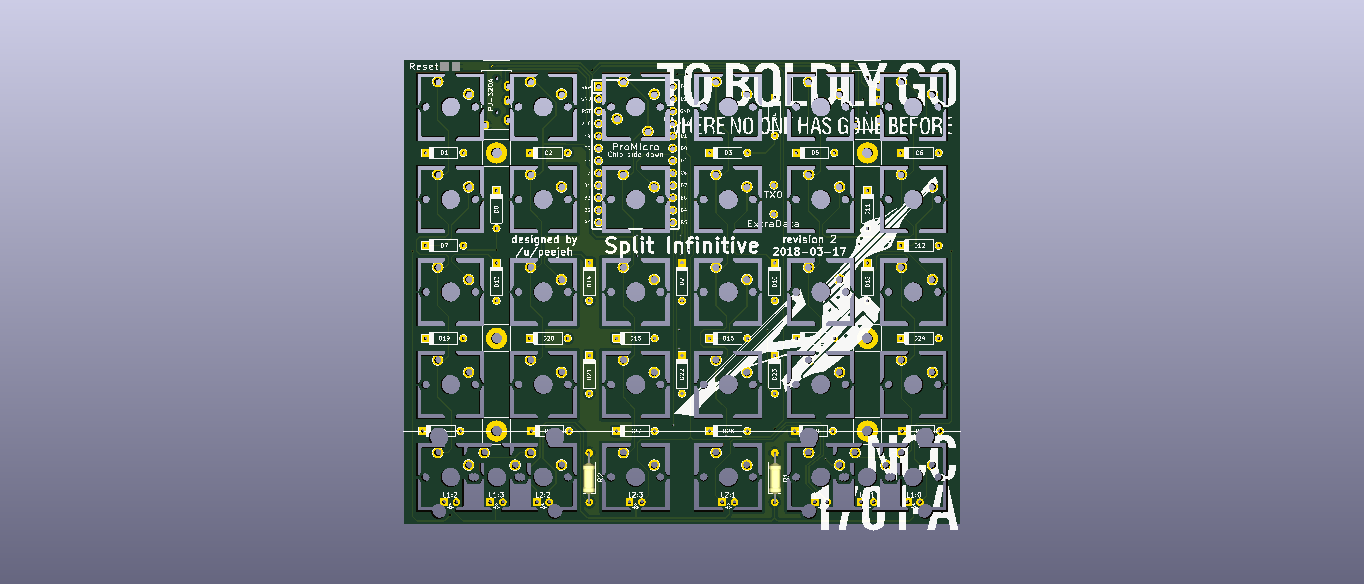
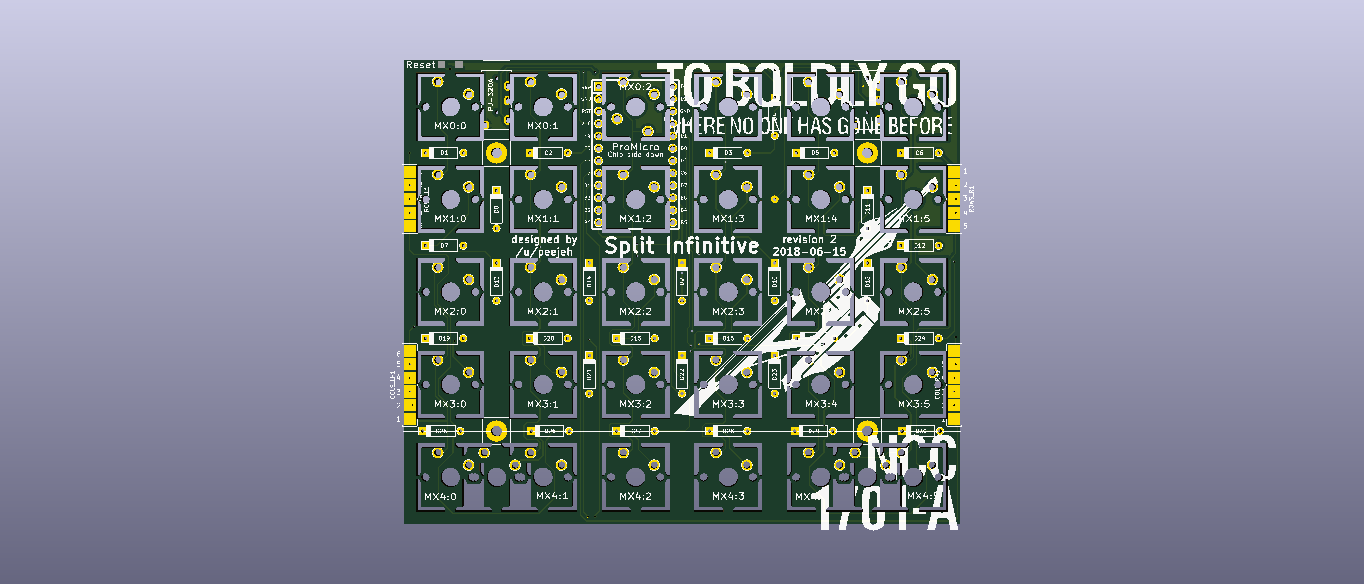
Update documentation

diff --git a/README.md b/README.md
@@ -3,10 +3,9 @@ Split Infinitive is a 6x5x2 key ortholinear split keyboard PCB.
 The goal of this project is to build a Let's Split keyboard clone with a number of alternative features:
 
 * Designed to be easy to build with minimal soldering experience.
-* Supports both 6x4x2 and 6x5x2 layouts and 2U keys in the bottom corners of the 6x5x2 layout.
+* Supports both 6x5x2 and 12x5x1 layouts and 2U keys in the bottom corners.
 * Switch plate cutouts in the PCB so the same PCB can also be used as a switch plate.
-* Serial communication over a TRRS cable only.
-* Support for indicator LEDs.
+* Serial communication over a TRRS cable in split configuration.
 * Single sided PCB, so both halves of the keyboard are identical.
 
 ![PCB render](pcb.png)
@@ -14,16 +13,14 @@ The goal of this project is to build a Let's Split keyboard clone with a number 
 # Bill of Materials (BOM)
 
 * 4 PCBs, 2 for components and 2 as switch plates.
-* 48/60 MX compatible switches.
-* 48/60 1n4148 diodes.
-* 2 Pro Micro controllers with headers or DIP sockets.
-* 2 PJ320A 3.5mm TRRS jacks.
+* 60 MX compatible switches.
+* 60 1n4148 diodes.
+* 1 or 2 Pro Micro controllers with headers or DIP sockets.
+* 2 PJ320A 3.5mm TRRS jacks for split configuration.
 * TRRS cable and micro USB cable.
 * 8 2M standoffs (12mm, depending on required height)
 * 16 2M screws
-* 48/60 MX compatible key caps.
-* 4 LEDs (type depends on your switches and preference)
-* 4 220ohm resistors (or an appropriate size for the LEDs)
+* 60 MX compatible key caps.
 
 ## Tools
 
@@ -42,11 +39,12 @@ When uploading the gerber zip files, use the default PCB settings. The plate PCB
 # Construction
 
 * You will need 4 PCBs.
-* If you are using the 6x4x2 layout, carefully cut the bottom row of switch footprints from the 4 PCBs.
 * Use the hacksaw blade to remove the 4 support screw holes from the 2 component PCBs.
 * Use a hacksaw blade to remove the cutouts for the switch plate PCBs.
 * Solder the diodes onto the underside of each PCB.
 * Solder on the Pro Micro headers (or a 24 pin DIP socket) onto the underside of each PCB, do not solder on the Pro Micros yet.
+  * In split configuration, both PCBs require a Pro Micro so add headers to both PCBs.
+  * In non-split configuration, only the master side requires a Pro Micro.
 * Solder the PJ320A TRRS sockets onto the underside of each PCB.
   * There are 2 positions per board, use the right position on the left hand PCB and the left position on the right hand PCB.
   * Ensure that the pins will not foul the placement of the switches and still allow the switches to sit flat on the PCB.
